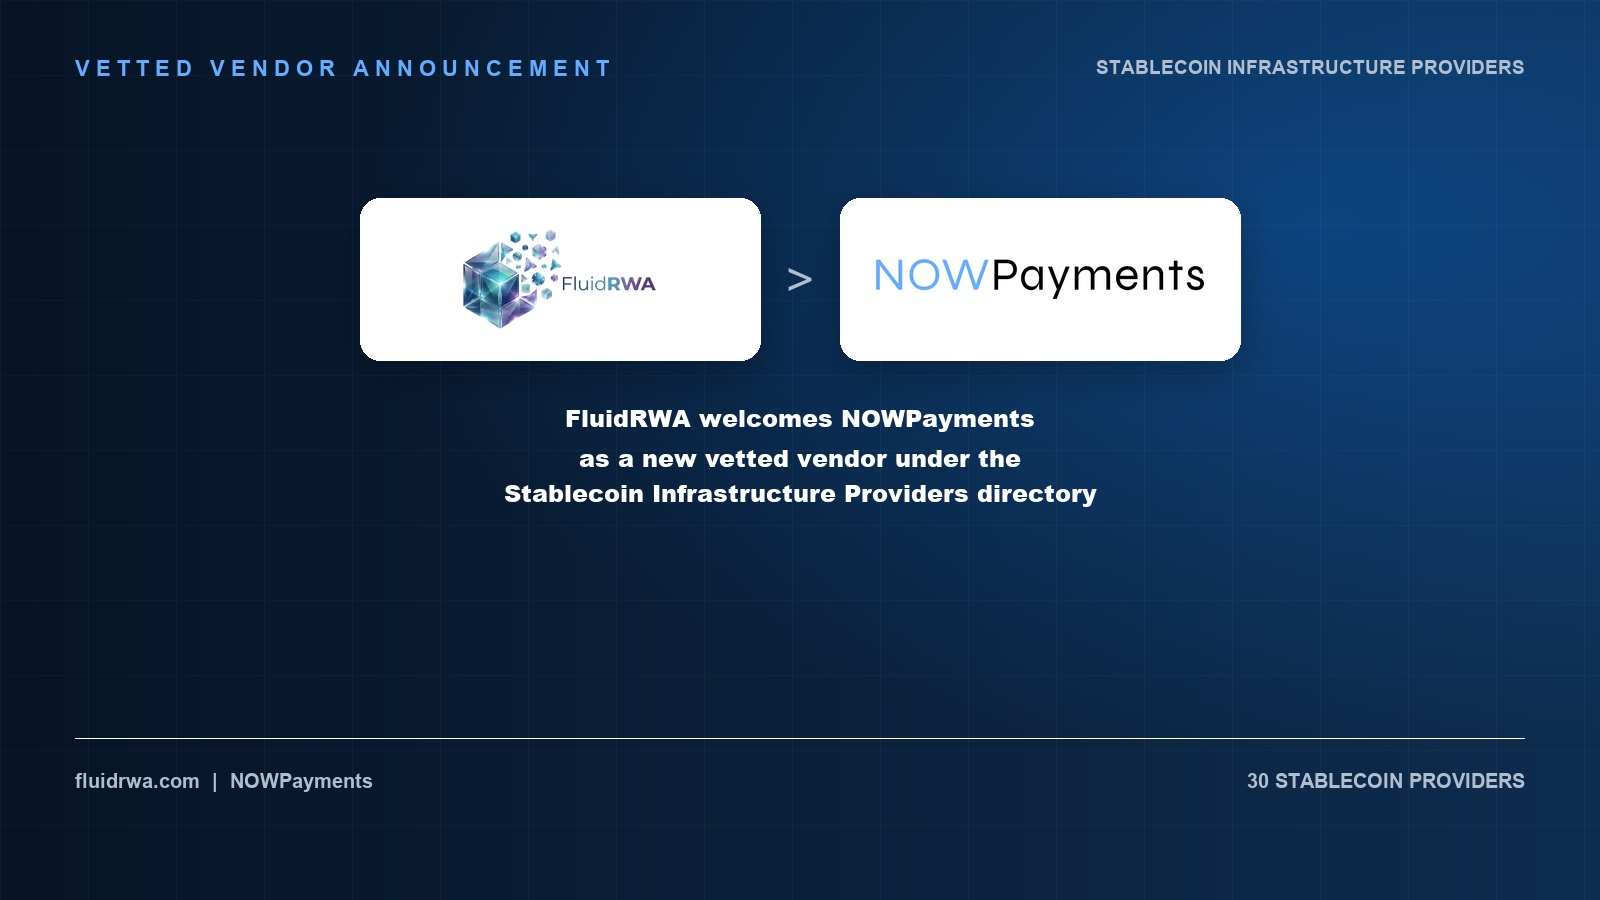
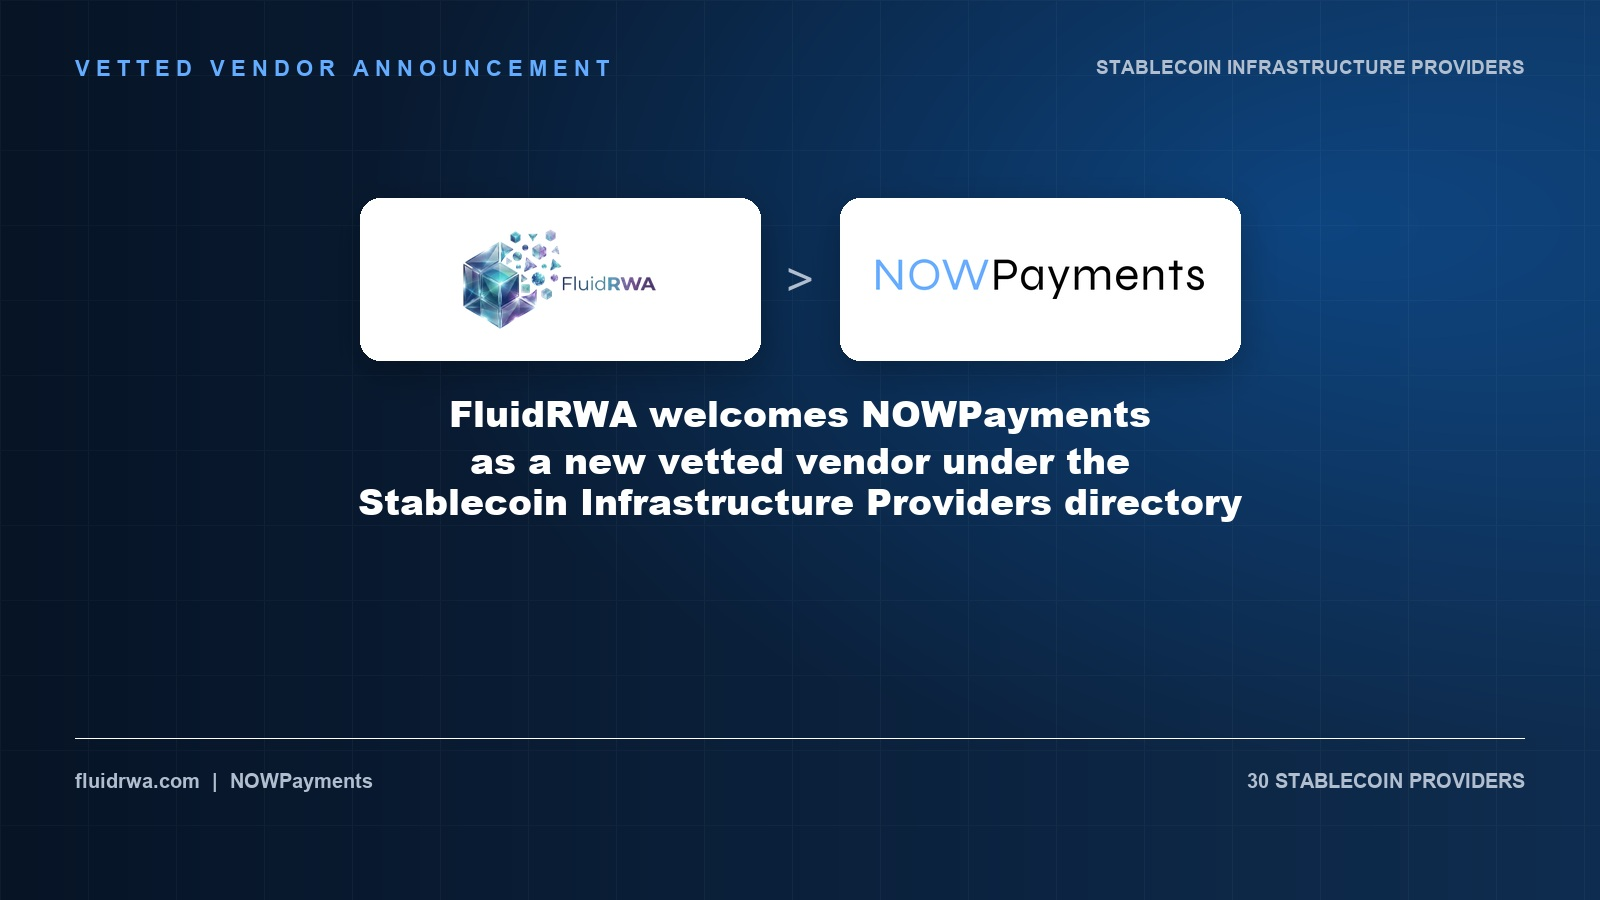
Reduce NOWPayments page title size

Changed region(s): [[0.2188, 0.4356, 0.7812, 0.5911]]

diff --git a/app/news/nowpayments-featured-on-fluidrwa/page.tsx b/app/news/nowpayments-featured-on-fluidrwa/page.tsx
@@ -108,7 +108,9 @@ export default function NowPaymentsFeaturedPage() {
       <section className="news-detail-hero">
         <div className="light-container news-detail-hero-stack">
           <p className="eyebrow light-eyebrow">FluidRWA news</p>
-          <h1>{title}</h1>
+          <h1 id="nowpayments-announcement-title" className="news-detail-title--compact">
+            {title}
+          </h1>
           <figure className="news-cover-card news-cover-card--wide" aria-label="NOWPayments vetted vendor announcement cover image">
             <img
               src={coverImagePath}

diff --git a/styles/globals.css b/styles/globals.css
@@ -6709,6 +6709,12 @@ body {
   letter-spacing: 0;
 }
 
+.light-home main #nowpayments-announcement-title.news-detail-title--compact {
+  max-width: 1040px;
+  font-size: clamp(22px, 1.8vw, 28px) !important;
+  line-height: 1.2 !important;
+}
+
 .news-detail-hero p:not(.eyebrow) {
   max-width: 760px;
   margin: 0;

diff --git a/scripts/create-nowpayments-announcement-images.py b/scripts/create-nowpayments-announcement-images.py
@@ -96,7 +96,7 @@ def create(size, filename):
 
     top = font("Arial Bold.ttf", int(w * 0.014))
     small = font("Arial Bold.ttf", int(w * 0.012))
-    title_face = font("Arial Black.ttf", int(w * 0.015))
+    title_face = font("Arial Black.ttf", int(w * 0.023))
     body = font("Arial.ttf", int(w * 0.022))
     footer = font("Arial Bold.ttf", int(w * 0.013))
     accent = (100, 172, 255, 255)
@@ -118,8 +118,8 @@ def create(size, filename):
         "as a new vetted vendor under the",
         "Stablecoin Infrastructure Providers directory",
     ]
-    headline_y = h * 0.445
-    headline_gap = h * 0.02
+    headline_y = h * 0.43
+    headline_gap = h * 0.016
     for line in headline_lines:
         box = draw.textbbox((0, 0), line, font=title_face)
         line_width = box[2] - box[0]
